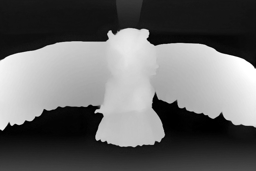
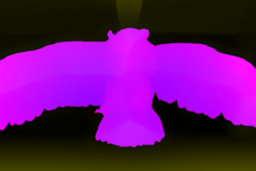
lab/splat: two layers with filled-in background, flat works as paper, image along the ribbon
- Offline (OpenCV): subject mask from depth, background inpainted under the subject
  (colour and depth). Spatial works render as background + subject layers, so the
  camera can swing without black holes or rubber-sheet smears.
- Flat works (logos, posters, illustrations; list in public/img/depth/meta.json,
  chosen by eye) stay flat and bend like paper instead of getting fake depth.
- Unravelled splats keep their image coordinates: the work rides along the flowing
  ribbon, stretched. Ribbon moved inside the frame and widened.
- Particle count per layer 260^2 (desktop) / 190^2 (touch); halves automatically if
  the first seconds run slow.

Claude-Session: https://claude.ai/code/session_01PqraikKwtAazTmYWYW32HH

diff --git a/v2/src/scripts/splat.ts b/v2/src/scripts/splat.ts
@@ -12,9 +12,10 @@
 
 import { makeSfx } from './sfx';
 
-const GRID = 240; // 粒の格子の、正方形のときの一辺(作品の縦横比に合わせて変える)
-const N = GRID * GRID;
-const TRAIL = 40; // なぞった跡を覚えておく数
+// 1層ぶんの粒の数。画面が重ければ、自動で減らす。
+const COARSE = window.matchMedia('(pointer: coarse)').matches;
+let N = COARSE ? 190 * 190 : 260 * 260;
+const TRAIL = 28; // なぞった跡を覚えておく数
 
 const VS = `#version 300 es
 precision highp float;
@@ -22,11 +23,12 @@ precision highp int;
 layout(location=0) in vec2 aQ;
 uniform sampler2D uImg;   // いまの作品
 uniform sampler2D uPrev;  // ひとつ前の作品(漂っている粒の色を、なめらかに切り替えるため)
-uniform sampler2D uDepth;
+uniform sampler2D uDepth; // r: 奥行き / g: 背景の奥行き(被写体の所を埋めたもの) / b: 被写体の切り抜き
+uniform sampler2D uBg;    // 背景(被写体の所を埋めたもの)
 uniform vec2 uView;
-uniform vec2 uGrid;       // 格子の数(横, 縦)
+uniform vec2 uGrid;       // 1層ぶんの格子の数(横, 縦)
 uniform vec4 uRect;       // 作品を置く所(中心x, 中心y, 幅, 高さ)
-uniform float uT, uForm, uBurst, uTens, uColMix, uZoom, uDepthAmt;
+uniform float uT, uForm, uBurst, uTens, uColMix, uZoom, uDepthAmt, uFlat;
 uniform vec2 uRot;        // 視点の回り込み(横, 縦)
 uniform vec2 uStyle;      // 組み上がり方, ほどけ方
 uniform vec4 uTrail[${TRAIL}]; // なぞった跡(x, y, 動きx, 動きy)
@@ -36,21 +38,39 @@ out vec2 vQ;
 out float vRest;
 float hsh(uint n){ n = (n << 13U) ^ n; n = n * (n * n * 15731U + 789221U) + 1376312589U; return float(n & 0x7fffffffU) / 2147483647.0; }
 void main(){
-  int i = gl_InstanceID;
   int gw = int(uGrid.x); int gh = int(uGrid.y);
-  int gx = i - (i / gw) * gw; int gy = i / gw;
-  if (gy >= gh) { gl_Position = vec4(2.0, 2.0, 2.0, 1.0); return; }
+  int per = gw * gh;
+  int i = gl_InstanceID;
+  int layer = i / per;            // 0: 背景(平面の作品では、作品そのもの) / 1: 被写体
+  int j = i - layer * per;
+  int gx = j - (j / gw) * gw; int gy = j / gw;
   vec2 uv = (vec2(float(gx), float(gy)) + 0.5) / uGrid;
+  vec4 dm = textureLod(uDepth, uv, 0.0);
+  bool fg = layer == 1;
+  // 平面の作品は1層だけ。空間の作品の被写体の層は、切り抜きの中だけ。
+  if (fg && (uFlat > 0.5 || dm.b < 0.5)) { gl_Position = vec4(2.0, 2.0, 2.0, 1.0); return; }
   float h1 = hsh(uint(i)); float h2 = hsh(uint(i) + 7919U); float h3 = hsh(uint(i) * 3U + 17U);
-  vec3 col = textureLod(uImg, uv, 0.0).rgb;
+  vec3 col = fg || uFlat > 0.5 ? textureLod(uImg, uv, 0.0).rgb : textureLod(uBg, uv, 0.0).rgb;
   vec3 pcol = textureLod(uPrev, uv, 0.0).rgb;
-  float d = textureLod(uDepth, uv, 0.0).r;
   float W = uRect.z; float H = uRect.w;
-  vec3 rest = vec3(uRect.x + (uv.x - 0.5) * W, uRect.y + (uv.y - 0.5) * H, (d - 0.45) * uDepthAmt);
+  vec3 rest; float d; float shade = 1.0;
+  if (uFlat > 0.5) {
+    // 平面の作品: 紙の帯として、ゆるく波打つ(奥行きは足さない)。
+    float ph = uv.x * 3.4 + uT * 0.35;
+    float z = sin(ph) * W * 0.16 + (uv.y - 0.5) * sin(ph * 0.5 + 1.3) * W * 0.12;
+    float slope = cos(ph) * 0.16 * 3.4;
+    rest = vec3(uRect.x + (uv.x - 0.5) * W, uRect.y + (uv.y - 0.5) * H, z);
+    shade = 0.8 + 0.2 * (1.0 - abs(slope)) + 0.08 * slope;
+    d = 0.5 + z / W;
+  } else {
+    d = fg ? dm.r : dm.g;
+    rest = vec3(uRect.x + (uv.x - 0.5) * W, uRect.y + (uv.y - 0.5) * H, (d - 0.45) * uDepthAmt + (fg ? uDepthAmt * 0.06 : -uDepthAmt * 0.04));
+    shade = 0.74 + 0.36 * d;
+  }
 
-  // ほどけた粒は、画面を大きく巡る1本の帯になって流れる(ねじれながら)。
-  float R = max(uView.x, uView.y) * 0.85;
-  float sl = fract(h1 + uT * 0.035 * (0.75 + 0.5 * h3));
+  // ほどけた粒は、画面を大きく巡る1本の帯になって流れる。帯の上には、作品の像が長く引き伸ばされて乗る。
+  float R = min(max(uView.x, uView.y) * 0.62, min(uView.x, uView.y) * 1.25);
+  float sl = fract(uv.x * 0.34 + float(layer) * 0.5 + uT * 0.03 + (h3 - 0.5) * 0.004);
   float an = sl * 6.2832;
   vec3 c0 = vec3(cos(an) * 0.62 + 0.16 * sin(2.0 * an + uT * 0.21), 0.30 * sin(1.5 * an + uT * 0.17), sin(an) * 0.55) * R;
   float an2 = an + 0.01;
@@ -59,18 +79,20 @@ void main(){
   vec3 nb = normalize(cross(tg, vec3(0.0, 1.0, 0.0)) + vec3(0.0, 0.0, 1e-4));
   vec3 bn = cross(nb, tg);
   float tw = an * 2.0 + uT * 0.35;
-  float wv = (h2 - 0.5) * R * 0.2;
-  vec3 cloud = c0 + (nb * cos(tw) + bn * sin(tw)) * wv + (vec3(h3, h1, h2) - 0.5) * R * 0.025;
+  float wv = (uv.y - 0.5) * R * 0.3;
+  vec3 cloud = c0 + (nb * cos(tw) + bn * sin(tw)) * wv + (vec3(h3, h1, h2) - 0.5) * R * 0.006;
+  float ribShade = 0.7 + 0.3 * abs(cos(tw));   // 帯のねじれで、明るさが変わる
   cloud.xy += uView * 0.5;
 
   // 組み上がり方: 0 手前から / 1 左から掃く / 2 中心から / 3 下から積む
   float fd = uStyle.x < 0.5 ? 1.0 - d : uStyle.x < 1.5 ? uv.x : uStyle.x < 2.5 ? length(uv - 0.5) * 1.4 : 1.0 - uv.y;
   // ほどけ方: 0 外から / 1 上の行から剥がれる / 2 奥から / 3 右から掃く
   float bd = uStyle.y < 0.5 ? 1.0 - length(uv - 0.5) * 1.4 : uStyle.y < 1.5 ? uv.y : uStyle.y < 2.5 ? d : 1.0 - uv.x;
+  if (fg) { fd *= 0.6; bd = bd * 0.6 + 0.4; }   // 被写体は先に立ち、最後にほどける
   const float S = 0.85;
   float fl = clamp(uForm * (1.0 + S) - S * (0.8 * fd + 0.2 * h1), 0.0, 1.0);
   float bl = clamp(uBurst * (1.0 + S) - S * (0.8 * bd + 0.2 * h2), 0.0, 1.0);
-  fl = 1.0 - pow(1.0 - fl, 3.0);       // 着地は ゆっくり
+  fl = 1.0 - pow(1.0 - fl, 3.0);
   bl = bl * bl * (3.0 - 2.0 * bl);
   float a = fl * (1.0 - bl);
 
@@ -95,9 +117,9 @@ void main(){
   disp.z = min(disp.z, uDepthAmt * 0.8);
   p += disp * (0.6 + 0.8 * h3);
 
-  // 雲から作品へ(と、その逆)。途中は少し ふくらんで飛ぶ。
+  // 帯から作品へ(と、その逆)。途中は少し ふくらんで飛ぶ。
   float arc = sin(3.14159 * a);
-  vec3 bulge = vec3(h1 - 0.5, h2 - 0.5, h3 - 0.2) * vec3(W, H, uDepthAmt * 6.0) * 0.5 * arc;
+  vec3 bulge = vec3(h1 - 0.5, h2 - 0.5, h3 - 0.2) * vec3(W, H, uDepthAmt * 6.0) * 0.35 * arc;
   vec3 pos = mix(cloud, p, a) + bulge * (1.0 - a);
 
   // 視点: 作品の中心のまわりに回り込み、寄る。
@@ -112,19 +134,16 @@ void main(){
   float s = F / max(F - q.z, 60.0);
   vec2 sp = c.xy + q.xy * s;
 
-  // 大きさ: 立っている時は、となりと重なって1枚の写真に見える。漂う時は小さな粒。
+  // 大きさ: 立っている時は、となりと重なって1枚に見える。帯の上では、少し隙間のある網点になる。
   float spacing = W / uGrid.x;
-  float size = mix(mix(0.7, 2.0, h2 * h2), spacing * 0.78, a) * s * uZoom;
+  float ribSize = R * 0.3 / uGrid.y * 0.75;
+  float size = mix(ribSize * mix(0.8, 1.15, h2), spacing * 0.8, a) * s * uZoom;
   size *= 1.0 + min(length(disp.xy) / (rad * 3.0), 0.5);
   vec2 corner = sp + aQ * size;
   gl_Position = vec4(corner.x / uView.x * 2.0 - 1.0, 1.0 - corner.y / uView.y * 2.0, clamp(-q.z / 4000.0, -0.99, 0.99), 1.0);
 
   vec3 cc = mix(pcol, col, uColMix);
-  // 漂う粒は、少し暗く、ときどき強く光る(遠いほど暗い)。
-  float far = clamp(1.0 - (q.z + R) / (2.0 * R), 0.0, 1.0);
-  float spark = h1 > 0.97 ? 1.8 : mix(0.45, 1.0, h3);
-  float shade = 0.78 + 0.32 * d;
-  vCol = mix(cc * spark * mix(1.0, 0.35, far), col * shade, a);
+  vCol = mix(cc * ribShade * (h1 > 0.985 ? 1.6 : 1.0), col * shade, a);
   vQ = aQ;
   vRest = a;
 }`;
@@ -136,12 +155,12 @@ out vec4 o;
 void main(){
   float r2 = dot(vQ, vQ);
   if (r2 > 1.0) discard;
-  // 立っている時は、ほとんど平ら(写真として見せる)。漂う時は、丸い粒に見えるよう ふちを落とす。
+  // 立っている時は、ほとんど平ら(写真として見せる)。帯の上では、丸い網点に見えるよう ふちを落とす。
   float edge = mix(1.0 - 0.55 * r2, 1.0 - 0.12 * r2, vRest);
   o = vec4(vCol * edge, 1.0);
 }`;
 
-type Work = { title: string; href: string; src: string; depth: string; img?: WebGLTexture; dep?: WebGLTexture; aspect: number; ready: boolean };
+type Work = { title: string; href: string; src: string; depth: string; bg: string; flat: boolean; img?: WebGLTexture; dep?: WebGLTexture; bgt?: WebGLTexture; aspect: number; ready: boolean };
 
 export function mountSplat(root: HTMLElement) {
   const cv = root.querySelector<HTMLCanvasElement>('[data-canvas]')!;
@@ -152,6 +171,8 @@ export function mountSplat(root: HTMLElement) {
     href: a.href,
     src: a.dataset.src || '',
     depth: a.dataset.depth || '',
+    bg: a.dataset.bg || '',
+    flat: a.dataset.flat !== undefined,
     aspect: 1,
     ready: false,
   }));
@@ -178,12 +199,13 @@ export function mountSplat(root: HTMLElement) {
   const U = (n: string) => gl.getUniformLocation(prog, n);
   const u = {
     view: U('uView'), grid: U('uGrid'), rect: U('uRect'), t: U('uT'), form: U('uForm'), burst: U('uBurst'), tens: U('uTens'),
-    colMix: U('uColMix'), zoom: U('uZoom'), depthAmt: U('uDepthAmt'), rot: U('uRot'), style: U('uStyle'),
+    colMix: U('uColMix'), flat: U('uFlat'), zoom: U('uZoom'), depthAmt: U('uDepthAmt'), rot: U('uRot'), style: U('uStyle'),
     trail: U('uTrail'), trailW: U('uTrailW'),
   };
   gl.uniform1i(U('uImg'), 0);
   gl.uniform1i(U('uPrev'), 1);
   gl.uniform1i(U('uDepth'), 2);
+  gl.uniform1i(U('uBg'), 4);
   const quad = gl.createBuffer();
   gl.bindBuffer(gl.ARRAY_BUFFER, quad);
   gl.bufferData(gl.ARRAY_BUFFER, new Float32Array([-1, -1, 1, -1, -1, 1, 1, 1]), gl.STATIC_DRAW);
@@ -213,21 +235,24 @@ export function mountSplat(root: HTMLElement) {
     loading.add(k);
     const a = new Image();
     const b = new Image();
-    a.decoding = b.decoding = 'async';
+    const c = new Image();
+    a.decoding = b.decoding = c.decoding = 'async';
     let n = 0;
     const done = () => {
-      if (++n < 2 || dead) return;
+      if (++n < 3 || dead) return;
       gl!.activeTexture(gl!.TEXTURE3);
       w.img = texFrom(a, true);
       w.dep = texFrom(b, true);
+      w.bgt = texFrom(c, true);
       w.aspect = a.naturalWidth / a.naturalHeight;
       w.ready = true;
       loading.delete(k);
     };
-    a.onload = b.onload = done;
-    a.onerror = b.onerror = () => loading.delete(k);
+    a.onload = b.onload = c.onload = done;
+    a.onerror = b.onerror = c.onerror = () => loading.delete(k);
     a.src = w.src;
     b.src = w.depth;
+    c.src = w.bg;
   }
 
   // ---------- 大きさ
@@ -378,6 +403,8 @@ export function mountSplat(root: HTMLElement) {
   let raf = 0;
   let last = performance.now();
   const t0 = last;
+  let fsum = 0;
+  let fcnt = 0;
   let rotX = 0;
   let rotY = 0;
   const ease = (x: number) => x * x * (3 - 2 * x);
@@ -456,6 +483,7 @@ export function mountSplat(root: HTMLElement) {
     gl!.uniform1f(u.burst, burst);
     gl!.uniform1f(u.tens, tens);
     gl!.uniform1f(u.colMix, colMix);
+    gl!.uniform1f(u.flat, cw.flat ? 1 : 0);
     gl!.uniform1f(u.zoom, zoom);
     gl!.uniform1f(u.depthAmt, Math.min(W, H) * 0.6);
     gl!.uniform2f(u.rot, rotX, rotY);
@@ -468,8 +496,18 @@ export function mountSplat(root: HTMLElement) {
     gl!.bindTexture(gl!.TEXTURE_2D, (prev >= 0 && works[prev].img) || cw.img || black);
     gl!.activeTexture(gl!.TEXTURE2);
     gl!.bindTexture(gl!.TEXTURE_2D, cw.dep || black);
+    gl!.activeTexture(gl!.TEXTURE4);
+    gl!.bindTexture(gl!.TEXTURE_2D, cw.bgt || black);
     gl!.clear(gl!.COLOR_BUFFER_BIT | gl!.DEPTH_BUFFER_BIT);
-    gl!.drawArraysInstanced(gl!.TRIANGLE_STRIP, 0, 4, N);
+    gl!.drawArraysInstanced(gl!.TRIANGLE_STRIP, 0, 4, gw * gh * 2);
+    // 重すぎる端末では、粒を減らす(最初の3秒の平均で判断)。
+    if (now > 1.5 && now < 4.5) {
+      fsum += dt;
+      fcnt++;
+    } else if (now >= 4.5 && fcnt > 0) {
+      if (fsum / fcnt > 0.026 && !(window as unknown as Record<string, unknown>).__splatKeep) N = Math.round(N * 0.55);
+      fcnt = -1e9;
+    }
   }
   size();
   load(0);
@@ -486,6 +524,13 @@ export function mountSplat(root: HTMLElement) {
       if (p === 'hold') holdLen = 999;
       if (p === 'gap' || p === 'form') colMix = 1;
     },
+    goId(src: string) {
+      const k = works.findIndex((w) => w.src.includes(src));
+      if (k >= 0) {
+        cur = k;
+        load(k);
+      }
+    },
     go(i: number) {
       cur = i % works.length;
       load(cur);
@@ -495,7 +540,7 @@ export function mountSplat(root: HTMLElement) {
       for (let k = 1; k < pts.length; k++) addTrail(pts[k][0], pts[k][1], (pts[k][0] - pts[k - 1][0]) * 60, (pts[k][1] - pts[k - 1][1]) * 60);
     },
     get state() {
-      return { cur, phase, pt, style, energy, ready: works.map((w) => w.ready).filter(Boolean).length };
+      return { cur, phase, pt, style, energy, N, flat: works[cur].flat, ready: works.map((w) => w.ready).filter(Boolean).length };
     },
   };
 
